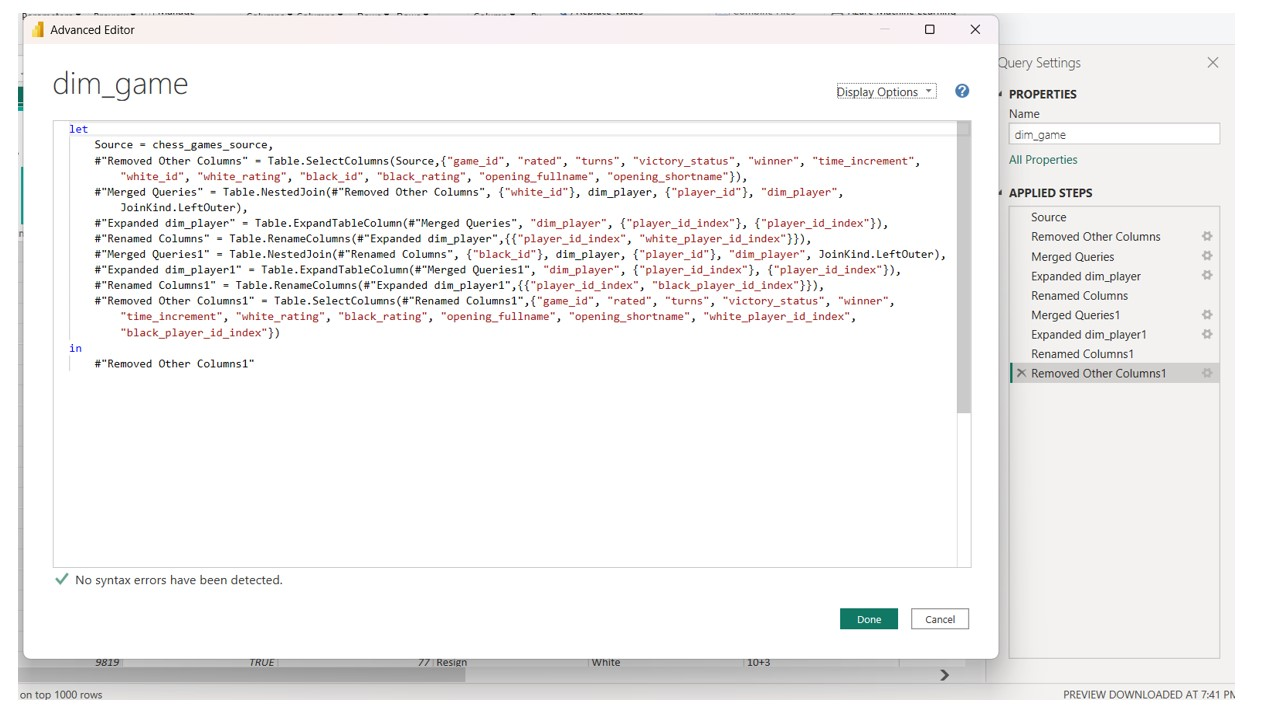
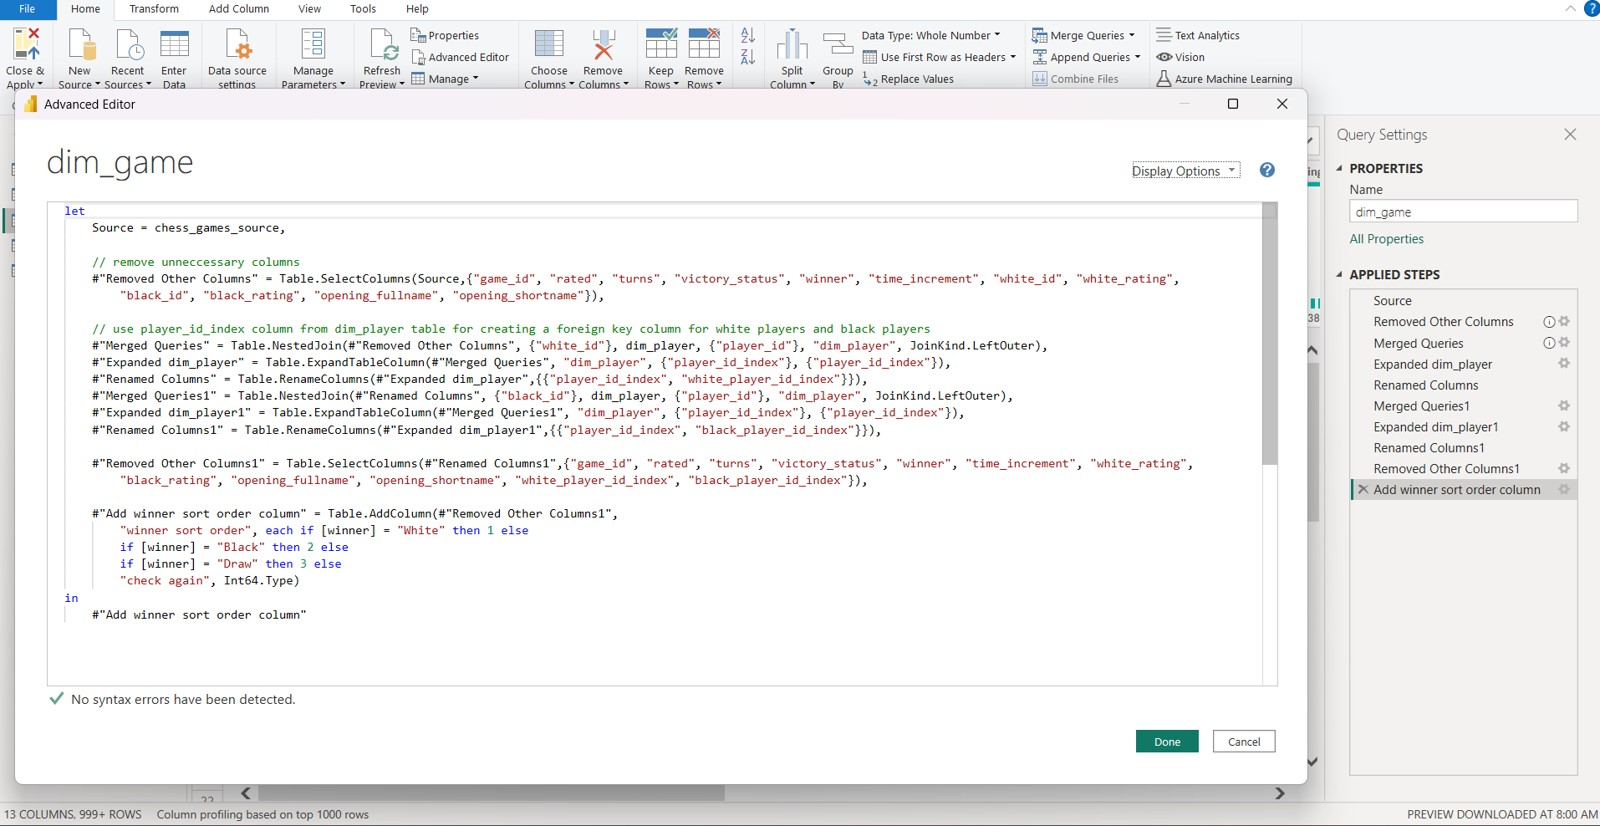
Add a note  and fix pictures in PQ section

Changed region(s): [[0.0, 0.0, 1.0, 1.0], [0.9688, 0.0, 1.0, 0.0306]]

diff --git a/5-Power BI/README.md b/5-Power BI/README.md
@@ -262,7 +262,7 @@ The source is given as a CSV file. My approach involves saving this source data 
 
 ![dim table advanced editor](/5-Power%20BI/assets/pq%20editor%20dim%20table%20advanced%20editor.jpg)
 
-<span style="color:green">*Note: The M code provided below is accompanied by comments following "//" that elucidate the purpose of each step. You can conveniently copy and paste the entire M code into the Advanced Editor within Power Query Editor.*</span>
+<span style="color:green">*Note: The following M code, complete with explanatory comments denoted by "//," outlines the step-by-step thought process behind code selection and composition. Feel assured that, despite the potential complexity of the M code within the Advanced Editor, there's no need to be intimidated. You can readily copy and paste the entire M code into Power Query Editor's Advanced Editor. While some of the M code in this course may appear intricate, don't hesitate to rely on the embedded comments to gain insight into my thought process and the M functions I considered using to achieve the desired outcome for each query*</span>
 
 ```M
 let
@@ -355,6 +355,8 @@ in
 - Assign a sequential numbering to each move within each game_id.
 
 ![pq editor fct table](/5-Power%20BI/assets/pq%20editor%20fct%20table.jpg)
+![pq editor fct table](/5-Power%20BI/assets/pq%20editor%20fct%20table%20advanced%20editor.jpg)
+
  
 ```M
 let
